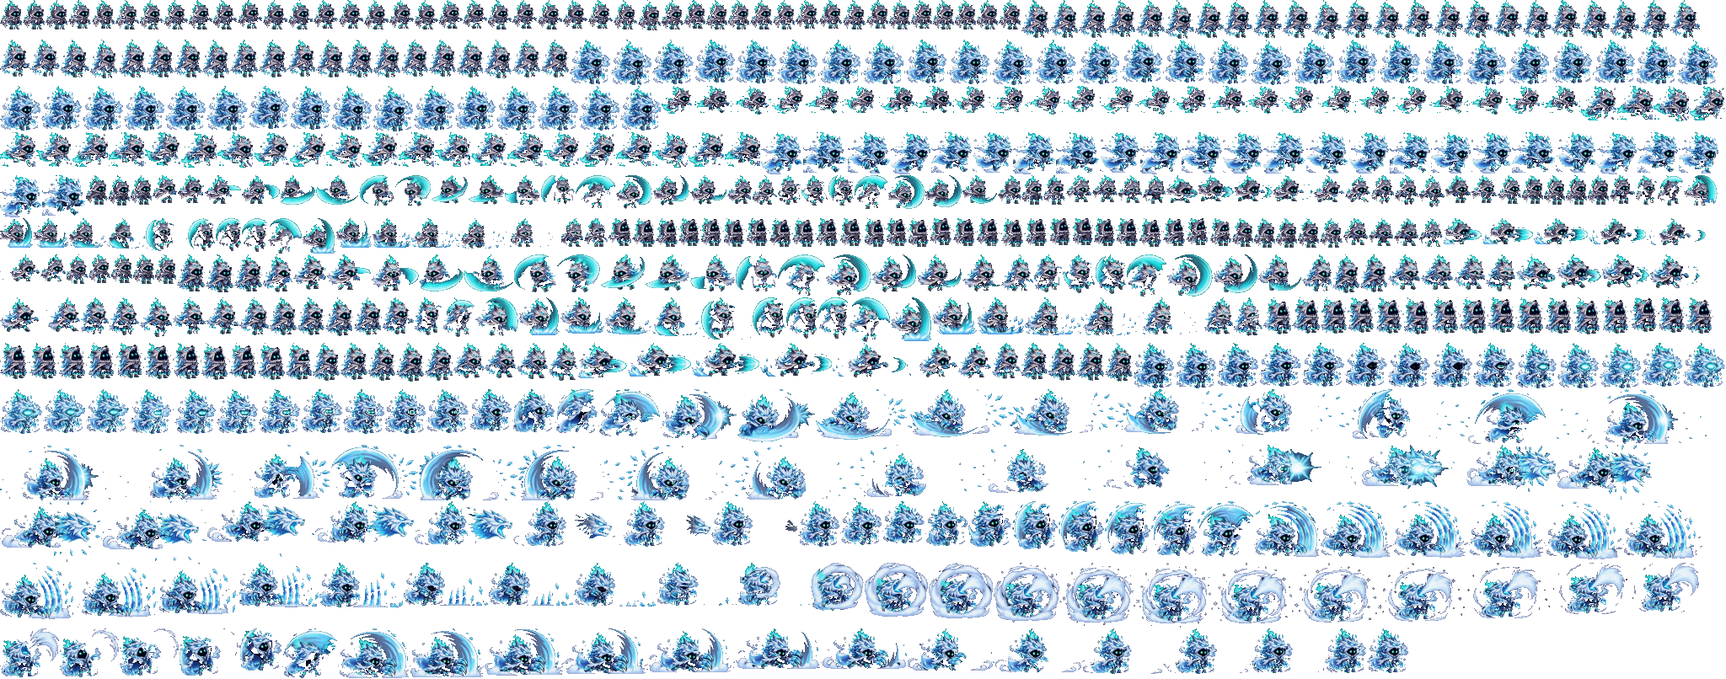
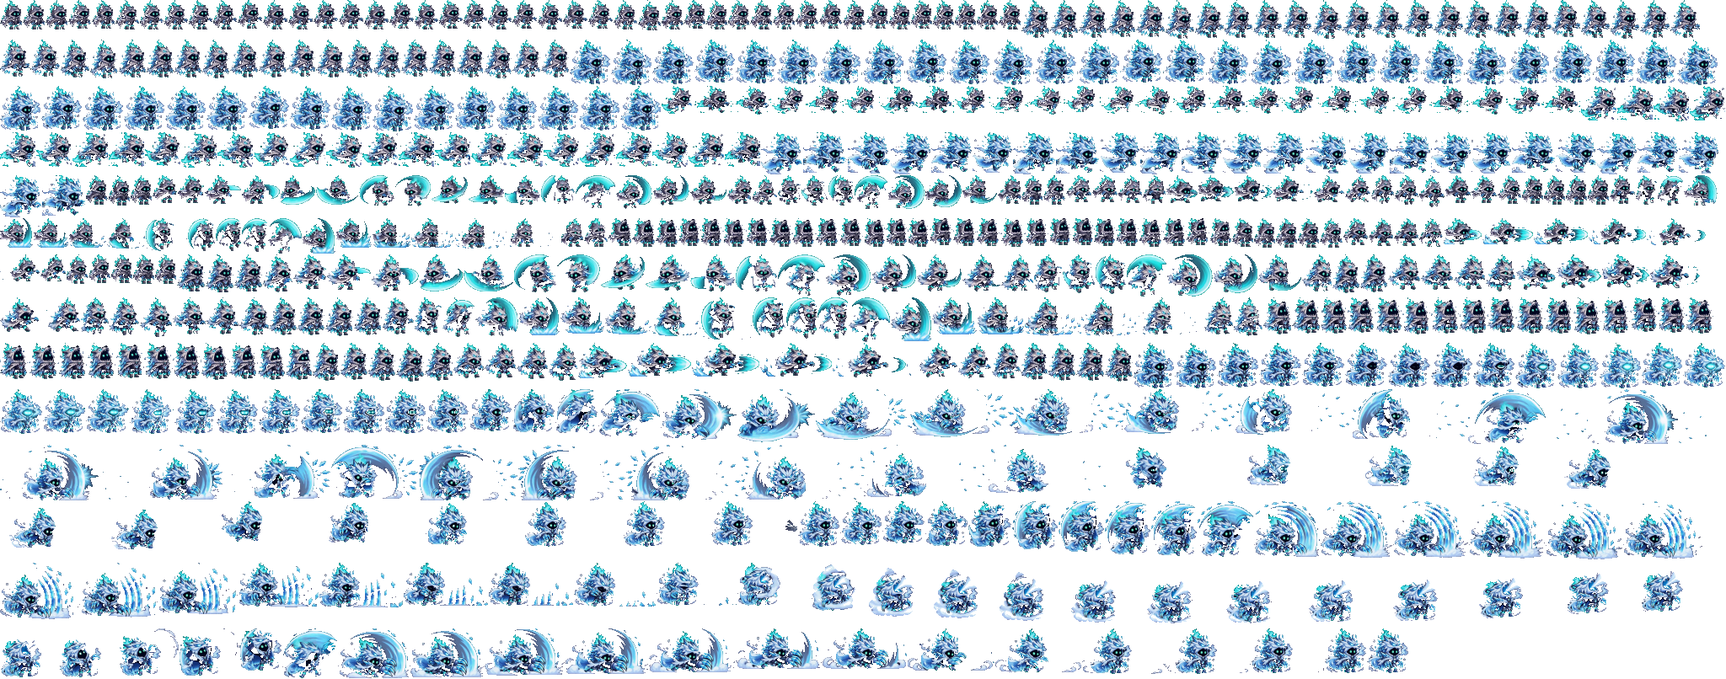
서리 늑대: 3단계 물기의 늑대 머리 대신 pixelfx 얼음 이빨, 3단계 포효는 몸동작만 + pixelfx 포효
Claude-Session: https://claude.ai/code/session_01CPuQwRxjahy2BkbhjWZhoU

diff --git a/test/golem.html b/test/golem.html
@@ -291,11 +291,13 @@ const HELMETS = [
     get skills() { return skillsOf(this); },     // 4개 중 2개 무작위 (S는 명품부터). 모두 언 적이 있으면 강해진다
     pool: [
       { name: "서리 송곳니", cd: 7, icon() { R(-6, -3, 12, 2, "#e8f6ff"); R(-6, 2, 12, 2, "#e8f6ff"); for (const x of [-5, -1, 3]) { R(x, -1, 2, 2, "#9bdcff"); R(x, 1, 2, 1, "#9bdcff"); } },
-        use(p) { const me = this, hit = new Set(); let refund = false;      // 덮쳐 물기 22 + 냉기 2. 언 적을 물면 즉시 깨고 쿨타임 절반을 돌려받는다
-          startAct(p, { dur: 0.32, pose: "thrust", wm: "bite", vx: 300, ghost: true, tick() {
+        use(p) { const me = this, hit = new Set(); let refund = false, bit = false;      // 덮쳐 물기 22 + 냉기 2. 언 적을 물면 즉시 깨고 쿨타임 절반을 돌려받는다
+          const bite = (x, y) => { if (bit) return; bit = true; spawn({ kind: "gfx", key: "wbite", x, y, t: 0, rate: 1, add: true }); shake(2, 0.1); };   // pixelfx 얼음 이빨
+          startAct(p, { dur: 0.32, pose: "thrust", wm: "bite", vx: 300, ghost: true, events: [{ t: 0.2, fn() { bite(p.x + p.dir * 24, p.y - 14); } }], tick() {
+            const fe = enemies.find((e) => live(e) && !hit.has(e) && Math.abs(e.x - (p.x + p.dir * 16)) < 22 + (e.type.hw ?? 7) && Math.abs(e.y - p.y) < 30); if (fe) bite(fe.x, fe.y - 14);
             const fz = enemies.some((e) => live(e) && !hit.has(e) && e.frozen > 0 && Math.abs(e.x - (p.x + p.dir * 16)) < 22 + (e.type.hw ?? 7) && Math.abs(e.y - p.y) < 30);
             if (melee(p, { x0: 0, x1: 30, y0: -30, y1: 2, dmg: 22, once: hit, kb: 90, wolf: true, frost: 2 }) && fz && !refund) { refund = true; const H = helmById("frostwolf"), i = H.skills.indexOf(me), cd = cdsOf("frostwolf"); if (i >= 0) cd[i] = Math.min(cd[i], skillCd(H, i) * 0.5); texts.push({ x: p.x, y: p.y - 46, vy: -30, t: 0.8, s: "쿨타임 절반!", c: "#9bdcff" }); } } });
-          fxSwoosh(p.x + p.dir * 18, p.y - 14, p.dir, 22, ICE, true); } },
+          } },
       { name: "빙하 발톱", cd: 9, icon() { for (const x of [-4, 0, 4]) { R(x, -6, 1, 12, "#e8f6ff"); R(x + 1, -6, 1, 12, "#9bdcff"); } },
         use(p) { startAct(p, { dur: 0.5, pose: "slam", wm: "claw", events: [{ t: 0.28, fn() {   // 거대한 얼음 발톱 3줄기, 줄마다 12 + 냉기 1. 근처에 언 적이 있으면 발톱이 두 배
           const big = enemies.some((e) => live(e) && e.frozen > 0 && Math.abs(e.x - p.x) < 120 && Math.abs(e.y - p.y) < 60), L = big ? 100 : 56;
@@ -304,8 +306,7 @@ const HELMETS = [
       { name: "눈보라 포효", cd: 16, icon() { E(0, 0, 6, 6, "#9bdcff"); E(0, 0, 4, 4, "#24202f"); E(0, 0, 2, 2, "#e8f6ff"); },
         use(p) { startAct(p, { dur: 0.7, pose: "cast", wm: "howl", vx: 0, events: [{ t: 0.25, fn() {   // 둘레 즉시 빙결. 이미 언 적은 그 자리에서 깨진다
           for (const e of enemies) if (live(e) && Math.abs(e.x - p.x) < 95 + (e.type.hw ?? 0) && Math.abs(e.y - p.y) < 60) { if (e.frozen > 0) damage(e, 18, { wolf: true, dir: Math.sign(e.x - p.x) || 1, kb: 60 }); else freezeNow(e); }
-          fxRing(p.x, p.y - 14, 60, ICE); fxShock(p.x, p.y, 95, ICE); light(p.x, p.y - 20, 100, "#9bdcff", 0.9, 0.35); shake(4, 0.3);
-          for (let i = 0; i < 30; i++) { const a = rnd(0, 6.28); spark(p.x, p.y - 16, Math.cos(a) * rnd(80, 220), Math.sin(a) * rnd(60, 160) - 30, rnd(0.4, 0.8), ICE, true); } } }] }); } },
+          spawn({ kind: "gfx", key: "whowl", x: p.x, y: p.y, dir: p.dir, t: 0, rate: 1, add: true }); light(p.x, p.y - 20, 100, "#9bdcff", 0.9, 0.35); shake(4, 0.3); } }] }); } },
       { name: "빙결 사냥", cd: 15, icon() { R(-7, 0, 12, 2, "#e8f6ff"); R(3, -3, 3, 8, "#9bdcff"); R(-7, -4, 4, 1, "#9bdcff"); R(-7, 5, 4, 1, "#9bdcff"); },
         use(p) { wolfHunt(p); } },
     ],
@@ -442,7 +443,7 @@ const giantImg = new Image(); giantImg.src = "../assets/giant.png";
 // 골렘 이펙트 시트 (pixelfx로 만든 것: fire/golem-meteor, nature/lava-crater, nature/lava-spire → art/golemfx/golemfx_pack.py). px, py = 착지점
 const GFX = {"meteor": {"w": 238, "h": 300, "cols": 8, "n": 64, "fps": 15, "px": 130, "py": 270}, "crater": {"w": 232, "h": 132, "cols": 8, "n": 47, "fps": 15, "px": 116, "py": 104}, "spire": {"w": 176, "h": 114, "cols": 11, "n": 40, "fps": 15, "px": 88, "py": 98}};
 GFX.lance = {"w": 248, "h": 56, "n": 17, "fps": 30, "px": 8, "py": 28, "L": 224};   // pixelfx melee/spectral-comet (전엔 spectral-lance): 세로로 쌓은 프레임, 창 길이 L 을 돌진 거리만큼 늘려 그린다
-Object.assign(GFX, {"harrow":{"w":57,"h":15,"cols":35,"n":12,"fps":30,"px":52,"py":8},"hpow":{"w":139,"h":34,"cols":14,"n":12,"fps":30,"px":128,"py":17},"hrel":{"w":71,"h":63,"cols":28,"n":11,"fps":30,"px":15,"py":32},"hring":{"w":24,"h":24,"cols":85,"n":7,"fps":30,"px":6,"py":12},"hringw":{"w":24,"h":24,"cols":85,"n":7,"fps":30,"px":6,"py":12},"harroww":{"w":57,"h":15,"cols":35,"n":12,"fps":30,"px":52,"py":8},"hchg":{"w":38,"h":40,"cols":53,"n":18,"fps":30,"px":19,"py":20},"hchg3":{"w":44,"h":43,"cols":46,"n":18,"fps":30,"px":19,"py":21},"hlbolt":{"w":102,"h":13,"cols":20,"n":9,"fps":30,"px":96,"py":6},"hlbeam":{"w":300,"h":50,"cols":6,"n":15,"fps":30,"px":12,"py":25},"himp":{"w":44,"h":24,"cols":46,"n":11,"fps":30,"px":22,"py":18},"hrain":{"w":74,"h":15,"cols":27,"n":9,"fps":30,"px":70,"py":7},"hrainw":{"w":74,"h":15,"cols":27,"n":9,"fps":30,"px":70,"py":7}});   // 사냥꾼: 영상 이펙트를 pixelfx로 (화살·흰 화살·빔 화살·쏘는 고리·모으기) (pixelfx projectiles/emerald-*, art/hunterfx/hunterfx_pack.py)
+Object.assign(GFX, {"harrow":{"w":57,"h":15,"cols":35,"n":12,"fps":30,"px":52,"py":8},"hpow":{"w":139,"h":34,"cols":14,"n":12,"fps":30,"px":128,"py":17},"hrel":{"w":71,"h":63,"cols":28,"n":11,"fps":30,"px":15,"py":32},"hring":{"w":24,"h":24,"cols":85,"n":7,"fps":30,"px":6,"py":12},"hringw":{"w":24,"h":24,"cols":85,"n":7,"fps":30,"px":6,"py":12},"harroww":{"w":57,"h":15,"cols":35,"n":12,"fps":30,"px":52,"py":8},"hchg":{"w":38,"h":40,"cols":53,"n":18,"fps":30,"px":19,"py":20},"hchg3":{"w":44,"h":43,"cols":46,"n":18,"fps":30,"px":19,"py":21},"hlbolt":{"w":102,"h":13,"cols":20,"n":9,"fps":30,"px":96,"py":6},"hlbeam":{"w":300,"h":50,"cols":6,"n":15,"fps":30,"px":12,"py":25},"himp":{"w":44,"h":24,"cols":46,"n":11,"fps":30,"px":22,"py":18},"hrain":{"w":74,"h":15,"cols":27,"n":9,"fps":30,"px":70,"py":7},"hrainw":{"w":74,"h":15,"cols":27,"n":9,"fps":30,"px":70,"py":7},"wbite":{"w":72,"h":63,"cols":28,"n":14,"fps":30,"px":36,"py":31},"whowl":{"w":220,"h":125,"cols":9,"n":24,"fps":30,"px":110,"py":97}});   // 사냥꾼: 영상 이펙트를 pixelfx로 (화살·흰 화살·빔 화살·쏘는 고리·모으기) (pixelfx projectiles/emerald-*, art/hunterfx/hunterfx_pack.py)
 const gfxImg = {}; for (const k in GFX) { gfxImg[k] = new Image(); gfxImg[k].src = `../assets/gfx_${k}.png`; }
 const GFX_METEOR_HIT = 0.8, GFX_SPIRE_UP = 0.2;            // 시트 안에서 운석이 닿는 때, 돌기둥이 솟는 때
 function gfx(key, x, rate = 1) { if (!ready(gfxImg[key])) return false; spawn({ kind: "gfx", key, x, t: 0, rate }); return true; }

diff --git a/test/helm.html b/test/helm.html
@@ -295,11 +295,13 @@ const HELMETS = [
     get skills() { return skillsOf(this); },     // 4개 중 2개 무작위 (S는 명품부터). 모두 언 적이 있으면 강해진다
     pool: [
       { name: "서리 송곳니", cd: 7, icon() { R(-6, -3, 12, 2, "#e8f6ff"); R(-6, 2, 12, 2, "#e8f6ff"); for (const x of [-5, -1, 3]) { R(x, -1, 2, 2, "#9bdcff"); R(x, 1, 2, 1, "#9bdcff"); } },
-        use(p) { const me = this, hit = new Set(); let refund = false;      // 덮쳐 물기 22 + 냉기 2. 언 적을 물면 즉시 깨고 쿨타임 절반을 돌려받는다
-          startAct(p, { dur: 0.32, pose: "thrust", wm: "bite", vx: 300, ghost: true, tick() {
+        use(p) { const me = this, hit = new Set(); let refund = false, bit = false;      // 덮쳐 물기 22 + 냉기 2. 언 적을 물면 즉시 깨고 쿨타임 절반을 돌려받는다
+          const bite = (x, y) => { if (bit) return; bit = true; spawn({ kind: "gfx", key: "wbite", x, y, t: 0, rate: 1, add: true }); shake(2, 0.1); };   // pixelfx 얼음 이빨
+          startAct(p, { dur: 0.32, pose: "thrust", wm: "bite", vx: 300, ghost: true, events: [{ t: 0.2, fn() { bite(p.x + p.dir * 24, p.y - 14); } }], tick() {
+            const fe = enemies.find((e) => live(e) && !hit.has(e) && Math.abs(e.x - (p.x + p.dir * 16)) < 22 + (e.type.hw ?? 7) && Math.abs(e.y - p.y) < 30); if (fe) bite(fe.x, fe.y - 14);
             const fz = enemies.some((e) => live(e) && !hit.has(e) && e.frozen > 0 && Math.abs(e.x - (p.x + p.dir * 16)) < 22 + (e.type.hw ?? 7) && Math.abs(e.y - p.y) < 30);
             if (melee(p, { x0: 0, x1: 30, y0: -30, y1: 2, dmg: 22, once: hit, kb: 90, wolf: true, frost: 2 }) && fz && !refund) { refund = true; const H = helmById("frostwolf"), i = H.skills.indexOf(me), cd = cdsOf("frostwolf"); if (i >= 0) cd[i] = Math.min(cd[i], skillCd(H, i) * 0.5); texts.push({ x: p.x, y: p.y - 46, vy: -30, t: 0.8, s: "쿨타임 절반!", c: "#9bdcff" }); } } });
-          fxSwoosh(p.x + p.dir * 18, p.y - 14, p.dir, 22, ICE, true); } },
+          } },
       { name: "빙하 발톱", cd: 9, icon() { for (const x of [-4, 0, 4]) { R(x, -6, 1, 12, "#e8f6ff"); R(x + 1, -6, 1, 12, "#9bdcff"); } },
         use(p) { startAct(p, { dur: 0.5, pose: "slam", wm: "claw", events: [{ t: 0.28, fn() {   // 거대한 얼음 발톱 3줄기, 줄마다 12 + 냉기 1. 근처에 언 적이 있으면 발톱이 두 배
           const big = enemies.some((e) => live(e) && e.frozen > 0 && Math.abs(e.x - p.x) < 120 && Math.abs(e.y - p.y) < 60), L = big ? 100 : 56;
@@ -308,8 +310,7 @@ const HELMETS = [
       { name: "눈보라 포효", cd: 16, icon() { E(0, 0, 6, 6, "#9bdcff"); E(0, 0, 4, 4, "#24202f"); E(0, 0, 2, 2, "#e8f6ff"); },
         use(p) { startAct(p, { dur: 0.7, pose: "cast", wm: "howl", vx: 0, events: [{ t: 0.25, fn() {   // 둘레 즉시 빙결. 이미 언 적은 그 자리에서 깨진다
           for (const e of enemies) if (live(e) && Math.abs(e.x - p.x) < 95 + (e.type.hw ?? 0) && Math.abs(e.y - p.y) < 60) { if (e.frozen > 0) damage(e, 18, { wolf: true, dir: Math.sign(e.x - p.x) || 1, kb: 60 }); else freezeNow(e); }
-          fxRing(p.x, p.y - 14, 60, ICE); fxShock(p.x, p.y, 95, ICE); light(p.x, p.y - 20, 100, "#9bdcff", 0.9, 0.35); shake(4, 0.3);
-          for (let i = 0; i < 30; i++) { const a = rnd(0, 6.28); spark(p.x, p.y - 16, Math.cos(a) * rnd(80, 220), Math.sin(a) * rnd(60, 160) - 30, rnd(0.4, 0.8), ICE, true); } } }] }); } },
+          spawn({ kind: "gfx", key: "whowl", x: p.x, y: p.y, dir: p.dir, t: 0, rate: 1, add: true }); light(p.x, p.y - 20, 100, "#9bdcff", 0.9, 0.35); shake(4, 0.3); } }] }); } },
       { name: "빙결 사냥", cd: 15, icon() { R(-7, 0, 12, 2, "#e8f6ff"); R(3, -3, 3, 8, "#9bdcff"); R(-7, -4, 4, 1, "#9bdcff"); R(-7, 5, 4, 1, "#9bdcff"); },
         use(p) { wolfHunt(p); } },
     ],
@@ -446,7 +447,7 @@ const giantImg = new Image(); giantImg.src = "../assets/giant.png";
 // 골렘 이펙트 시트 (pixelfx로 만든 것: fire/golem-meteor, nature/lava-crater, nature/lava-spire → art/golemfx/golemfx_pack.py). px, py = 착지점
 const GFX = {"meteor": {"w": 238, "h": 300, "cols": 8, "n": 64, "fps": 15, "px": 130, "py": 270}, "crater": {"w": 232, "h": 132, "cols": 8, "n": 47, "fps": 15, "px": 116, "py": 104}, "spire": {"w": 176, "h": 114, "cols": 11, "n": 40, "fps": 15, "px": 88, "py": 98}};
 GFX.lance = {"w": 248, "h": 56, "n": 17, "fps": 30, "px": 8, "py": 28, "L": 224};   // pixelfx melee/spectral-comet (전엔 spectral-lance): 세로로 쌓은 프레임, 창 길이 L 을 돌진 거리만큼 늘려 그린다
-Object.assign(GFX, {"harrow":{"w":57,"h":15,"cols":35,"n":12,"fps":30,"px":52,"py":8},"hpow":{"w":139,"h":34,"cols":14,"n":12,"fps":30,"px":128,"py":17},"hrel":{"w":71,"h":63,"cols":28,"n":11,"fps":30,"px":15,"py":32},"hring":{"w":24,"h":24,"cols":85,"n":7,"fps":30,"px":6,"py":12},"hringw":{"w":24,"h":24,"cols":85,"n":7,"fps":30,"px":6,"py":12},"harroww":{"w":57,"h":15,"cols":35,"n":12,"fps":30,"px":52,"py":8},"hchg":{"w":38,"h":40,"cols":53,"n":18,"fps":30,"px":19,"py":20},"hchg3":{"w":44,"h":43,"cols":46,"n":18,"fps":30,"px":19,"py":21},"hlbolt":{"w":102,"h":13,"cols":20,"n":9,"fps":30,"px":96,"py":6},"hlbeam":{"w":300,"h":50,"cols":6,"n":15,"fps":30,"px":12,"py":25},"himp":{"w":44,"h":24,"cols":46,"n":11,"fps":30,"px":22,"py":18},"hrain":{"w":74,"h":15,"cols":27,"n":9,"fps":30,"px":70,"py":7},"hrainw":{"w":74,"h":15,"cols":27,"n":9,"fps":30,"px":70,"py":7}});   // 사냥꾼: 영상 이펙트를 pixelfx로 (화살·흰 화살·빔 화살·쏘는 고리·모으기) (pixelfx projectiles/emerald-*, art/hunterfx/hunterfx_pack.py)
+Object.assign(GFX, {"harrow":{"w":57,"h":15,"cols":35,"n":12,"fps":30,"px":52,"py":8},"hpow":{"w":139,"h":34,"cols":14,"n":12,"fps":30,"px":128,"py":17},"hrel":{"w":71,"h":63,"cols":28,"n":11,"fps":30,"px":15,"py":32},"hring":{"w":24,"h":24,"cols":85,"n":7,"fps":30,"px":6,"py":12},"hringw":{"w":24,"h":24,"cols":85,"n":7,"fps":30,"px":6,"py":12},"harroww":{"w":57,"h":15,"cols":35,"n":12,"fps":30,"px":52,"py":8},"hchg":{"w":38,"h":40,"cols":53,"n":18,"fps":30,"px":19,"py":20},"hchg3":{"w":44,"h":43,"cols":46,"n":18,"fps":30,"px":19,"py":21},"hlbolt":{"w":102,"h":13,"cols":20,"n":9,"fps":30,"px":96,"py":6},"hlbeam":{"w":300,"h":50,"cols":6,"n":15,"fps":30,"px":12,"py":25},"himp":{"w":44,"h":24,"cols":46,"n":11,"fps":30,"px":22,"py":18},"hrain":{"w":74,"h":15,"cols":27,"n":9,"fps":30,"px":70,"py":7},"hrainw":{"w":74,"h":15,"cols":27,"n":9,"fps":30,"px":70,"py":7},"wbite":{"w":72,"h":63,"cols":28,"n":14,"fps":30,"px":36,"py":31},"whowl":{"w":220,"h":125,"cols":9,"n":24,"fps":30,"px":110,"py":97}});   // 사냥꾼: 영상 이펙트를 pixelfx로 (화살·흰 화살·빔 화살·쏘는 고리·모으기) (pixelfx projectiles/emerald-*, art/hunterfx/hunterfx_pack.py)
 const gfxImg = {}; for (const k in GFX) { gfxImg[k] = new Image(); gfxImg[k].src = `../assets/gfx_${k}.png`; }
 const GFX_METEOR_HIT = 0.8, GFX_SPIRE_UP = 0.2;            // 시트 안에서 운석이 닿는 때, 돌기둥이 솟는 때
 function gfx(key, x, rate = 1) { if (!ready(gfxImg[key])) return false; spawn({ kind: "gfx", key, x, t: 0, rate }); return true; }

diff --git a/test/sword.html b/test/sword.html
@@ -291,11 +291,13 @@ const HELMETS = [
     get skills() { return skillsOf(this); },     // 4개 중 2개 무작위 (S는 명품부터). 모두 언 적이 있으면 강해진다
     pool: [
       { name: "서리 송곳니", cd: 7, icon() { R(-6, -3, 12, 2, "#e8f6ff"); R(-6, 2, 12, 2, "#e8f6ff"); for (const x of [-5, -1, 3]) { R(x, -1, 2, 2, "#9bdcff"); R(x, 1, 2, 1, "#9bdcff"); } },
-        use(p) { const me = this, hit = new Set(); let refund = false;      // 덮쳐 물기 22 + 냉기 2. 언 적을 물면 즉시 깨고 쿨타임 절반을 돌려받는다
-          startAct(p, { dur: 0.32, pose: "thrust", wm: "bite", vx: 300, ghost: true, tick() {
+        use(p) { const me = this, hit = new Set(); let refund = false, bit = false;      // 덮쳐 물기 22 + 냉기 2. 언 적을 물면 즉시 깨고 쿨타임 절반을 돌려받는다
+          const bite = (x, y) => { if (bit) return; bit = true; spawn({ kind: "gfx", key: "wbite", x, y, t: 0, rate: 1, add: true }); shake(2, 0.1); };   // pixelfx 얼음 이빨
+          startAct(p, { dur: 0.32, pose: "thrust", wm: "bite", vx: 300, ghost: true, events: [{ t: 0.2, fn() { bite(p.x + p.dir * 24, p.y - 14); } }], tick() {
+            const fe = enemies.find((e) => live(e) && !hit.has(e) && Math.abs(e.x - (p.x + p.dir * 16)) < 22 + (e.type.hw ?? 7) && Math.abs(e.y - p.y) < 30); if (fe) bite(fe.x, fe.y - 14);
             const fz = enemies.some((e) => live(e) && !hit.has(e) && e.frozen > 0 && Math.abs(e.x - (p.x + p.dir * 16)) < 22 + (e.type.hw ?? 7) && Math.abs(e.y - p.y) < 30);
             if (melee(p, { x0: 0, x1: 30, y0: -30, y1: 2, dmg: 22, once: hit, kb: 90, wolf: true, frost: 2 }) && fz && !refund) { refund = true; const H = helmById("frostwolf"), i = H.skills.indexOf(me), cd = cdsOf("frostwolf"); if (i >= 0) cd[i] = Math.min(cd[i], skillCd(H, i) * 0.5); texts.push({ x: p.x, y: p.y - 46, vy: -30, t: 0.8, s: "쿨타임 절반!", c: "#9bdcff" }); } } });
-          fxSwoosh(p.x + p.dir * 18, p.y - 14, p.dir, 22, ICE, true); } },
+          } },
       { name: "빙하 발톱", cd: 9, icon() { for (const x of [-4, 0, 4]) { R(x, -6, 1, 12, "#e8f6ff"); R(x + 1, -6, 1, 12, "#9bdcff"); } },
         use(p) { startAct(p, { dur: 0.5, pose: "slam", wm: "claw", events: [{ t: 0.28, fn() {   // 거대한 얼음 발톱 3줄기, 줄마다 12 + 냉기 1. 근처에 언 적이 있으면 발톱이 두 배
           const big = enemies.some((e) => live(e) && e.frozen > 0 && Math.abs(e.x - p.x) < 120 && Math.abs(e.y - p.y) < 60), L = big ? 100 : 56;
@@ -304,8 +306,7 @@ const HELMETS = [
       { name: "눈보라 포효", cd: 16, icon() { E(0, 0, 6, 6, "#9bdcff"); E(0, 0, 4, 4, "#24202f"); E(0, 0, 2, 2, "#e8f6ff"); },
         use(p) { startAct(p, { dur: 0.7, pose: "cast", wm: "howl", vx: 0, events: [{ t: 0.25, fn() {   // 둘레 즉시 빙결. 이미 언 적은 그 자리에서 깨진다
           for (const e of enemies) if (live(e) && Math.abs(e.x - p.x) < 95 + (e.type.hw ?? 0) && Math.abs(e.y - p.y) < 60) { if (e.frozen > 0) damage(e, 18, { wolf: true, dir: Math.sign(e.x - p.x) || 1, kb: 60 }); else freezeNow(e); }
-          fxRing(p.x, p.y - 14, 60, ICE); fxShock(p.x, p.y, 95, ICE); light(p.x, p.y - 20, 100, "#9bdcff", 0.9, 0.35); shake(4, 0.3);
-          for (let i = 0; i < 30; i++) { const a = rnd(0, 6.28); spark(p.x, p.y - 16, Math.cos(a) * rnd(80, 220), Math.sin(a) * rnd(60, 160) - 30, rnd(0.4, 0.8), ICE, true); } } }] }); } },
+          spawn({ kind: "gfx", key: "whowl", x: p.x, y: p.y, dir: p.dir, t: 0, rate: 1, add: true }); light(p.x, p.y - 20, 100, "#9bdcff", 0.9, 0.35); shake(4, 0.3); } }] }); } },
       { name: "빙결 사냥", cd: 15, icon() { R(-7, 0, 12, 2, "#e8f6ff"); R(3, -3, 3, 8, "#9bdcff"); R(-7, -4, 4, 1, "#9bdcff"); R(-7, 5, 4, 1, "#9bdcff"); },
         use(p) { wolfHunt(p); } },
     ],
@@ -442,7 +443,7 @@ const giantImg = new Image(); giantImg.src = "../assets/giant.png";
 // 골렘 이펙트 시트 (pixelfx로 만든 것: fire/golem-meteor, nature/lava-crater, nature/lava-spire → art/golemfx/golemfx_pack.py). px, py = 착지점
 const GFX = {"meteor": {"w": 238, "h": 300, "cols": 8, "n": 64, "fps": 15, "px": 130, "py": 270}, "crater": {"w": 232, "h": 132, "cols": 8, "n": 47, "fps": 15, "px": 116, "py": 104}, "spire": {"w": 176, "h": 114, "cols": 11, "n": 40, "fps": 15, "px": 88, "py": 98}};
 GFX.lance = {"w": 248, "h": 56, "n": 17, "fps": 30, "px": 8, "py": 28, "L": 224};   // pixelfx melee/spectral-comet (전엔 spectral-lance): 세로로 쌓은 프레임, 창 길이 L 을 돌진 거리만큼 늘려 그린다
-Object.assign(GFX, {"harrow":{"w":57,"h":15,"cols":35,"n":12,"fps":30,"px":52,"py":8},"hpow":{"w":139,"h":34,"cols":14,"n":12,"fps":30,"px":128,"py":17},"hrel":{"w":71,"h":63,"cols":28,"n":11,"fps":30,"px":15,"py":32},"hring":{"w":24,"h":24,"cols":85,"n":7,"fps":30,"px":6,"py":12},"hringw":{"w":24,"h":24,"cols":85,"n":7,"fps":30,"px":6,"py":12},"harroww":{"w":57,"h":15,"cols":35,"n":12,"fps":30,"px":52,"py":8},"hchg":{"w":38,"h":40,"cols":53,"n":18,"fps":30,"px":19,"py":20},"hchg3":{"w":44,"h":43,"cols":46,"n":18,"fps":30,"px":19,"py":21},"hlbolt":{"w":102,"h":13,"cols":20,"n":9,"fps":30,"px":96,"py":6},"hlbeam":{"w":300,"h":50,"cols":6,"n":15,"fps":30,"px":12,"py":25},"himp":{"w":44,"h":24,"cols":46,"n":11,"fps":30,"px":22,"py":18},"hrain":{"w":74,"h":15,"cols":27,"n":9,"fps":30,"px":70,"py":7},"hrainw":{"w":74,"h":15,"cols":27,"n":9,"fps":30,"px":70,"py":7}});   // 사냥꾼: 영상 이펙트를 pixelfx로 (화살·흰 화살·빔 화살·쏘는 고리·모으기) (pixelfx projectiles/emerald-*, art/hunterfx/hunterfx_pack.py)
+Object.assign(GFX, {"harrow":{"w":57,"h":15,"cols":35,"n":12,"fps":30,"px":52,"py":8},"hpow":{"w":139,"h":34,"cols":14,"n":12,"fps":30,"px":128,"py":17},"hrel":{"w":71,"h":63,"cols":28,"n":11,"fps":30,"px":15,"py":32},"hring":{"w":24,"h":24,"cols":85,"n":7,"fps":30,"px":6,"py":12},"hringw":{"w":24,"h":24,"cols":85,"n":7,"fps":30,"px":6,"py":12},"harroww":{"w":57,"h":15,"cols":35,"n":12,"fps":30,"px":52,"py":8},"hchg":{"w":38,"h":40,"cols":53,"n":18,"fps":30,"px":19,"py":20},"hchg3":{"w":44,"h":43,"cols":46,"n":18,"fps":30,"px":19,"py":21},"hlbolt":{"w":102,"h":13,"cols":20,"n":9,"fps":30,"px":96,"py":6},"hlbeam":{"w":300,"h":50,"cols":6,"n":15,"fps":30,"px":12,"py":25},"himp":{"w":44,"h":24,"cols":46,"n":11,"fps":30,"px":22,"py":18},"hrain":{"w":74,"h":15,"cols":27,"n":9,"fps":30,"px":70,"py":7},"hrainw":{"w":74,"h":15,"cols":27,"n":9,"fps":30,"px":70,"py":7},"wbite":{"w":72,"h":63,"cols":28,"n":14,"fps":30,"px":36,"py":31},"whowl":{"w":220,"h":125,"cols":9,"n":24,"fps":30,"px":110,"py":97}});   // 사냥꾼: 영상 이펙트를 pixelfx로 (화살·흰 화살·빔 화살·쏘는 고리·모으기) (pixelfx projectiles/emerald-*, art/hunterfx/hunterfx_pack.py)
 const gfxImg = {}; for (const k in GFX) { gfxImg[k] = new Image(); gfxImg[k].src = `../assets/gfx_${k}.png`; }
 const GFX_METEOR_HIT = 0.8, GFX_SPIRE_UP = 0.2;            // 시트 안에서 운석이 닿는 때, 돌기둥이 솟는 때
 function gfx(key, x, rate = 1) { if (!ready(gfxImg[key])) return false; spawn({ kind: "gfx", key, x, t: 0, rate }); return true; }

diff --git a/index.html b/index.html
@@ -292,11 +292,13 @@ const HELMETS = [
     get skills() { return skillsOf(this); },     // 4개 중 2개 무작위 (S는 명품부터). 모두 언 적이 있으면 강해진다
     pool: [
       { name: "서리 송곳니", cd: 7, icon() { R(-6, -3, 12, 2, "#e8f6ff"); R(-6, 2, 12, 2, "#e8f6ff"); for (const x of [-5, -1, 3]) { R(x, -1, 2, 2, "#9bdcff"); R(x, 1, 2, 1, "#9bdcff"); } },
-        use(p) { const me = this, hit = new Set(); let refund = false;      // 덮쳐 물기 22 + 냉기 2. 언 적을 물면 즉시 깨고 쿨타임 절반을 돌려받는다
-          startAct(p, { dur: 0.32, pose: "thrust", wm: "bite", vx: 300, ghost: true, tick() {
+        use(p) { const me = this, hit = new Set(); let refund = false, bit = false;      // 덮쳐 물기 22 + 냉기 2. 언 적을 물면 즉시 깨고 쿨타임 절반을 돌려받는다
+          const bite = (x, y) => { if (bit) return; bit = true; spawn({ kind: "gfx", key: "wbite", x, y, t: 0, rate: 1, add: true }); shake(2, 0.1); };   // pixelfx 얼음 이빨
+          startAct(p, { dur: 0.32, pose: "thrust", wm: "bite", vx: 300, ghost: true, events: [{ t: 0.2, fn() { bite(p.x + p.dir * 24, p.y - 14); } }], tick() {
+            const fe = enemies.find((e) => live(e) && !hit.has(e) && Math.abs(e.x - (p.x + p.dir * 16)) < 22 + (e.type.hw ?? 7) && Math.abs(e.y - p.y) < 30); if (fe) bite(fe.x, fe.y - 14);
             const fz = enemies.some((e) => live(e) && !hit.has(e) && e.frozen > 0 && Math.abs(e.x - (p.x + p.dir * 16)) < 22 + (e.type.hw ?? 7) && Math.abs(e.y - p.y) < 30);
             if (melee(p, { x0: 0, x1: 30, y0: -30, y1: 2, dmg: 22, once: hit, kb: 90, wolf: true, frost: 2 }) && fz && !refund) { refund = true; const H = helmById("frostwolf"), i = H.skills.indexOf(me), cd = cdsOf("frostwolf"); if (i >= 0) cd[i] = Math.min(cd[i], skillCd(H, i) * 0.5); texts.push({ x: p.x, y: p.y - 46, vy: -30, t: 0.8, s: "쿨타임 절반!", c: "#9bdcff" }); } } });
-          fxSwoosh(p.x + p.dir * 18, p.y - 14, p.dir, 22, ICE, true); } },
+          } },
       { name: "빙하 발톱", cd: 9, icon() { for (const x of [-4, 0, 4]) { R(x, -6, 1, 12, "#e8f6ff"); R(x + 1, -6, 1, 12, "#9bdcff"); } },
         use(p) { startAct(p, { dur: 0.5, pose: "slam", wm: "claw", events: [{ t: 0.28, fn() {   // 거대한 얼음 발톱 3줄기, 줄마다 12 + 냉기 1. 근처에 언 적이 있으면 발톱이 두 배
           const big = enemies.some((e) => live(e) && e.frozen > 0 && Math.abs(e.x - p.x) < 120 && Math.abs(e.y - p.y) < 60), L = big ? 100 : 56;
@@ -305,8 +307,7 @@ const HELMETS = [
       { name: "눈보라 포효", cd: 16, icon() { E(0, 0, 6, 6, "#9bdcff"); E(0, 0, 4, 4, "#24202f"); E(0, 0, 2, 2, "#e8f6ff"); },
         use(p) { startAct(p, { dur: 0.7, pose: "cast", wm: "howl", vx: 0, events: [{ t: 0.25, fn() {   // 둘레 즉시 빙결. 이미 언 적은 그 자리에서 깨진다
           for (const e of enemies) if (live(e) && Math.abs(e.x - p.x) < 95 + (e.type.hw ?? 0) && Math.abs(e.y - p.y) < 60) { if (e.frozen > 0) damage(e, 18, { wolf: true, dir: Math.sign(e.x - p.x) || 1, kb: 60 }); else freezeNow(e); }
-          fxRing(p.x, p.y - 14, 60, ICE); fxShock(p.x, p.y, 95, ICE); light(p.x, p.y - 20, 100, "#9bdcff", 0.9, 0.35); shake(4, 0.3);
-          for (let i = 0; i < 30; i++) { const a = rnd(0, 6.28); spark(p.x, p.y - 16, Math.cos(a) * rnd(80, 220), Math.sin(a) * rnd(60, 160) - 30, rnd(0.4, 0.8), ICE, true); } } }] }); } },
+          spawn({ kind: "gfx", key: "whowl", x: p.x, y: p.y, dir: p.dir, t: 0, rate: 1, add: true }); light(p.x, p.y - 20, 100, "#9bdcff", 0.9, 0.35); shake(4, 0.3); } }] }); } },
       { name: "빙결 사냥", cd: 15, icon() { R(-7, 0, 12, 2, "#e8f6ff"); R(3, -3, 3, 8, "#9bdcff"); R(-7, -4, 4, 1, "#9bdcff"); R(-7, 5, 4, 1, "#9bdcff"); },
         use(p) { wolfHunt(p); } },
     ],
@@ -443,7 +444,7 @@ const giantImg = new Image(); giantImg.src = "assets/giant.png";
 // 골렘 이펙트 시트 (pixelfx로 만든 것: fire/golem-meteor, nature/lava-crater, nature/lava-spire → art/golemfx/golemfx_pack.py). px, py = 착지점
 const GFX = {"meteor": {"w": 238, "h": 300, "cols": 8, "n": 64, "fps": 15, "px": 130, "py": 270}, "crater": {"w": 232, "h": 132, "cols": 8, "n": 47, "fps": 15, "px": 116, "py": 104}, "spire": {"w": 176, "h": 114, "cols": 11, "n": 40, "fps": 15, "px": 88, "py": 98}};
 GFX.lance = {"w": 248, "h": 56, "n": 17, "fps": 30, "px": 8, "py": 28, "L": 224};   // pixelfx melee/spectral-comet (전엔 spectral-lance): 세로로 쌓은 프레임, 창 길이 L 을 돌진 거리만큼 늘려 그린다
-Object.assign(GFX, {"harrow":{"w":57,"h":15,"cols":35,"n":12,"fps":30,"px":52,"py":8},"hpow":{"w":139,"h":34,"cols":14,"n":12,"fps":30,"px":128,"py":17},"hrel":{"w":71,"h":63,"cols":28,"n":11,"fps":30,"px":15,"py":32},"hring":{"w":24,"h":24,"cols":85,"n":7,"fps":30,"px":6,"py":12},"hringw":{"w":24,"h":24,"cols":85,"n":7,"fps":30,"px":6,"py":12},"harroww":{"w":57,"h":15,"cols":35,"n":12,"fps":30,"px":52,"py":8},"hchg":{"w":38,"h":40,"cols":53,"n":18,"fps":30,"px":19,"py":20},"hchg3":{"w":44,"h":43,"cols":46,"n":18,"fps":30,"px":19,"py":21},"hlbolt":{"w":102,"h":13,"cols":20,"n":9,"fps":30,"px":96,"py":6},"hlbeam":{"w":300,"h":50,"cols":6,"n":15,"fps":30,"px":12,"py":25},"himp":{"w":44,"h":24,"cols":46,"n":11,"fps":30,"px":22,"py":18},"hrain":{"w":74,"h":15,"cols":27,"n":9,"fps":30,"px":70,"py":7},"hrainw":{"w":74,"h":15,"cols":27,"n":9,"fps":30,"px":70,"py":7}});   // 사냥꾼: 영상 이펙트를 pixelfx로 (화살·흰 화살·빔 화살·쏘는 고리·모으기) (pixelfx projectiles/emerald-*, art/hunterfx/hunterfx_pack.py)
+Object.assign(GFX, {"harrow":{"w":57,"h":15,"cols":35,"n":12,"fps":30,"px":52,"py":8},"hpow":{"w":139,"h":34,"cols":14,"n":12,"fps":30,"px":128,"py":17},"hrel":{"w":71,"h":63,"cols":28,"n":11,"fps":30,"px":15,"py":32},"hring":{"w":24,"h":24,"cols":85,"n":7,"fps":30,"px":6,"py":12},"hringw":{"w":24,"h":24,"cols":85,"n":7,"fps":30,"px":6,"py":12},"harroww":{"w":57,"h":15,"cols":35,"n":12,"fps":30,"px":52,"py":8},"hchg":{"w":38,"h":40,"cols":53,"n":18,"fps":30,"px":19,"py":20},"hchg3":{"w":44,"h":43,"cols":46,"n":18,"fps":30,"px":19,"py":21},"hlbolt":{"w":102,"h":13,"cols":20,"n":9,"fps":30,"px":96,"py":6},"hlbeam":{"w":300,"h":50,"cols":6,"n":15,"fps":30,"px":12,"py":25},"himp":{"w":44,"h":24,"cols":46,"n":11,"fps":30,"px":22,"py":18},"hrain":{"w":74,"h":15,"cols":27,"n":9,"fps":30,"px":70,"py":7},"hrainw":{"w":74,"h":15,"cols":27,"n":9,"fps":30,"px":70,"py":7},"wbite":{"w":72,"h":63,"cols":28,"n":14,"fps":30,"px":36,"py":31},"whowl":{"w":220,"h":125,"cols":9,"n":24,"fps":30,"px":110,"py":97}});   // 사냥꾼: 영상 이펙트를 pixelfx로 (화살·흰 화살·빔 화살·쏘는 고리·모으기) (pixelfx projectiles/emerald-*, art/hunterfx/hunterfx_pack.py)
 const gfxImg = {}; for (const k in GFX) { gfxImg[k] = new Image(); gfxImg[k].src = `assets/gfx_${k}.png`; }
 const GFX_METEOR_HIT = 0.8, GFX_SPIRE_UP = 0.2;            // 시트 안에서 운석이 닿는 때, 돌기둥이 솟는 때
 function gfx(key, x, rate = 1) { if (!ready(gfxImg[key])) return false; spawn({ kind: "gfx", key, x, t: 0, rate }); return true; }

diff --git a/art/heroframes/fx_strip.py b/art/heroframes/fx_strip.py
@@ -1,11 +1,16 @@
 # 영상 공격 프레임에서 이펙트를 지우고 몸동작만 남긴다 (이펙트는 pixelfx로 따로 그린다).
 # 같은 단계 대기 프레임들의 모양(발 기준으로 겹친 것)을 조금 넓힌 자리 밖은 지우고(고리·빔·화살·잎),
 # 그 안에서도 대기 때 없던 아주 밝은 색(빛 덩어리)은 지운다. 마지막으로 몸에서 떨어진 조각을 지운다.
-# 실행: python3 art/heroframes/fx_strip.py <계보>   (index.html의 HERO.<계보>와 assets/hero_<계보>.png를 고친다)
+# 실행: python3 art/heroframes/fx_strip.py <계보> [동작들] [단계:프레임범위,...]   (index.html의 HERO.<계보>와 assets/hero_<계보>.png를 고친다)
+# 예: fx_strip.py frostwolf attack 2:49-60,87-101  → 3단계 공격의 49~60, 87~101번 프레임만
 import sys, json, numpy as np
 from PIL import Image
 from scipy import ndimage
 LINE = sys.argv[1]; MOVES = sys.argv[2].split(",") if len(sys.argv) > 2 else ["attack"]
+ONLY = {}
+for tok in (sys.argv[3].split(",") if len(sys.argv) > 3 else []):
+    if ":" in tok: cur, tok = tok.split(":"); cur = int(cur)
+    a_, b_ = map(int, tok.split("-")); ONLY.setdefault(cur, []).append((a_, b_))
 s = open("index.html").read(); k = s.index(f"{LINE}: ", s.index("const HERO = {")) + len(LINE) + 2
 H, end = json.JSONDecoder().raw_decode(s[k:]); B = H["boxes"]
 sheet = np.asarray(Image.open(f"assets/hero_{LINE}.png").convert("RGBA")).copy()
@@ -18,7 +23,8 @@ for st, S in enumerate(H["stages"]):
         x, y, w, h = B[ci]; c = sheet[y:y + h, x:x + w]; pal |= set(np.unique(q(c)[c[..., 3] > 0]).tolist()); U[R + oy:R + oy + h, R + ox:R + ox + w] |= c[..., 3] > 0
     U = ndimage.binary_dilation(U, iterations=2)
     for mv in MOVES:
-        for ci, ox, oy in S.get(mv, {"f": []})["f"]:
+        for fi, (ci, ox, oy) in enumerate(S.get(mv, {"f": []})["f"]):
+            if ONLY and not any(a_ <= fi <= b_ for a_, b_ in ONLY.get(st, [])): continue
             if ci in done: continue
             done.add(ci); x, y, w, h = B[ci]; c = sheet[y:y + h, x:x + w]
             a = (c[..., 3] > 0) & U[R + oy:R + oy + h, R + ox:R + ox + w]    # 대기 모양을 넓힌 자리 안만

diff --git a/진행 현황.md b/진행 현황.md
@@ -79,7 +79,7 @@
 - 사냥꾼 계보 대기·달리기 완료 (`assets/hero_hunter.png`, 원본 `art/heroframes/hunter_idle_run_source.mp4`). B-1(1·2단계 공격) 완료: `art/heroframes/hunter_s12_attack_source.mp4`, seg sh(속사)·ch(모으기)·pw(강한 화살), 영상 속 화살은 clip으로 뺌. B-2(3단계 공격) 완료: `hunter_s3_attack_source.mp4`. **사냥꾼 계보 영상 전부 완료**. 공격 프레임은 이펙트를 지운 몸동작만 (`art/heroframes/fx_strip.py hunter`, hero_cut 다시 돌리면 이것도 다시), 영상 이펙트는 pixelfx로 재현: `assets/gfx_harrow·harroww·hpow·hrel·hring·hringw·hchg·hchg3.png` (art/hunterfx). 쏘면서·모으면서 걷기 가능. 스킬은 스컬 스나이퍼 방식(다중·관통·공성·고정 사격 중 2개 무작위 `skillsOf`, 집중 다 찬 채로 쓰면 강화 `focusUse`, 멀수록 치명타 +50%, 적이 없으면 집중 빠름, 교체 = 덫+물러나기+화살비). 3단계는 초록 레이저: 평타 레이저 볼트(hlbolt), 강한 화살은 한순간에 꿰뚫는 레이저 빔(hlbeam, 길이 280). 화살 적중은 히트스톱 없음(ranged)
 - 챕터 2 코드: 골렘 처치 → 출구 문 "요새로" → `ROOMS2` (전투 3 → 도적+사제 → 전투 3 → 암시장 → 쌍둥이 기사단장). 적 `crossbow` `heavy` `cavalry` `handler`, 정예 방은 `banner`+`flag`. 도적 `adv_thief` AI, 사제가 동료에게 보호막. 보스 `knight_s`·`knight_b` (`twinAI`, X자 돌진·방패 발판, 한 명 쓰러지면 분노). 보스 체력바 여러 개
 - 챕터 2 그림 받음(9d8f835): 배경 2, 지형, 소품, 앞 실루엣, 석궁병, 중갑 기사, 쌍둥이 기사단장(`assets/ch2_twins.png`, 정지 그림을 기울여 움직임), 방 소품(`assets/room_objects.png`: 이벤트 4·상자 3·투구 무덤). `art/ch2/ch2_cut.py`, `art/room/room_cut.py`, `art/enemies/enemies_cut.py`(원본 있는 것만)
-- 서리 늑대 영상 A(대기·달리기) 받음: `art/heroframes/frostwolf_idle_run_source.mp4`, 잘라 둔 프레임 `assets/hero_frostwolf.png` + `art/heroframes/frostwolf_frames.json` (코드 넣음: 투구 시험장 전용 `wip: true`, 게임 드롭에서는 빠짐. pixelfx 없이 코드 이펙트만. B-2(3단계 공격) 받음 `frostwolf_s3_attack_source.mp4`. 1·2단계 반달이 가운데 선을 넘어 잘리던 것은 hero_cut `zone=own`(덩어리마다 가까운 캐릭터 것)으로 고침). 대기 1.0~5.3초, 달리기 6.0~8.5초. B-1(1·2단계 공격) 받음: `frostwolf_s12_attack_source.mp4`, 영상에 할퀴기 반달·얼음 튀김 이펙트가 들어 있어 그대로 씀 (근접이라 겹칠 코드 투사체가 없음). seg는 frames.json
+- 서리 늑대 영상 A(대기·달리기) 받음: `art/heroframes/frostwolf_idle_run_source.mp4`, 잘라 둔 프레임 `assets/hero_frostwolf.png` + `art/heroframes/frostwolf_frames.json` (코드 넣음: 투구 시험장 전용 `wip: true`, 게임 드롭에서는 빠짐. pixelfx 없이 코드 이펙트만. B-2(3단계 공격) 받음 `frostwolf_s3_attack_source.mp4`. 3단계 물기의 늑대 머리·포효 소용돌이는 영상에서 지우고(fx_strip frostwolf attack 2:49-60,87-101) pixelfx `gfx_wbite`·`gfx_whowl`로. 1·2단계 반달이 가운데 선을 넘어 잘리던 것은 hero_cut `zone=own`(덩어리마다 가까운 캐릭터 것)으로 고침). 대기 1.0~5.3초, 달리기 6.0~8.5초. B-1(1·2단계 공격) 받음: `frostwolf_s12_attack_source.mp4`, 영상에 할퀴기 반달·얼음 튀김 이펙트가 들어 있어 그대로 씀 (근접이라 겹칠 코드 투사체가 없음). seg는 frames.json
 - 투구 새 구상 확정: 서리 늑대(새, 얼음), 괴도(도적), 용광로 거인(대장장이), 장수풍뎅이 기사(방패병 대신, 탱커), 유령선 선장(나무꾼 대신). 견습 마법사는 그대로, 나중에 다른 속성. 라인업 프롬프트는 이미지 프롬프트 전체.md `[line_*]`. 라인업 5장 전부 확정 (`art/heroframes/*_lineup_source.png`): 서리 늑대, 괴도, 유령선 선장(3단계 폭풍 제독), 장수풍뎅이 기사(방패병 대신), 처형인(대장장이 대신: 망나니 → 사형 집행관 → 단두대의 군주, 낙인 3개 → 처형). 코드는 영상이 준비될 때 그 투구부터 한 번에 (사용자 요청). 투구마다 영상 3개 (대기·달리기 / 1·2단계 공격 / 3단계 공격)
 - 챕터 2 그림 받음(e3607a0): 기마병·조련사·깃발 기사(`enemies.png`), 도적 8자세(`assets/thief_anim.png`, `art/ch2/thief_cut.py`). 다음: 쌍둥이 기사단장 영상
 - 아이템·투구 미리보기 카드 (`drawPreview`: 등급색 틀, 설명, 각인 보유 수→획득 후, 발동 효과, 칸 가득 경고). Tab 창에서 가진 아이템 X 꾹 = 분해(금화). 병사 평타 찌르기→강찌르기→올려 베기(마무리 1.5배)
